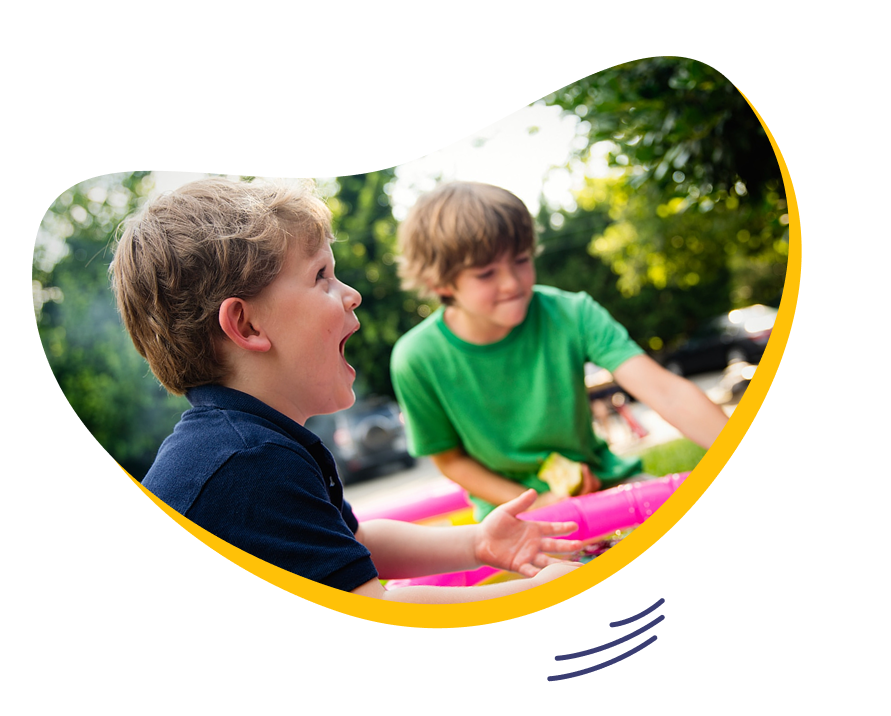
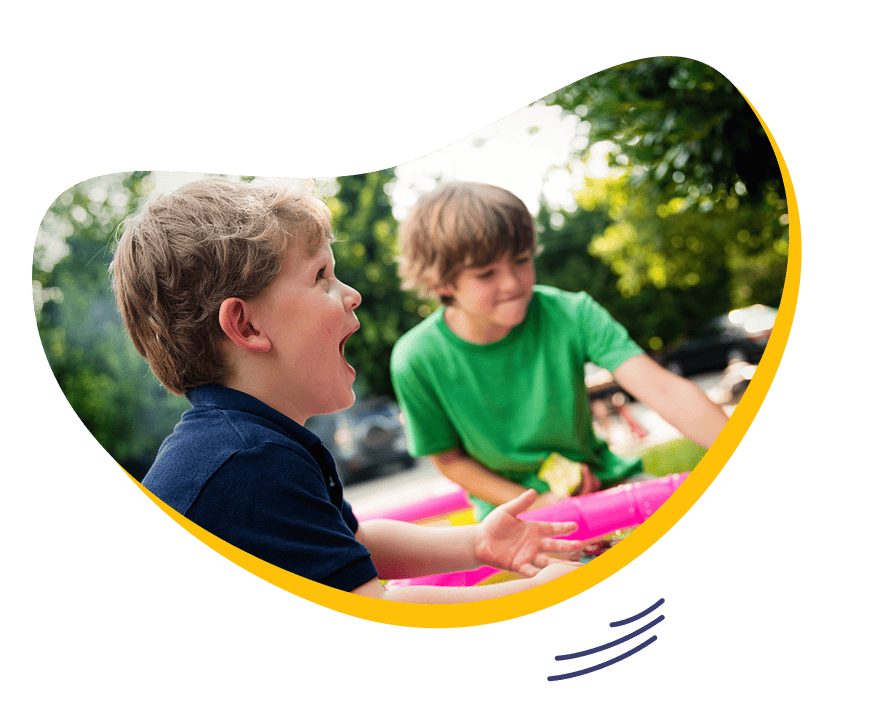
Arreglo img

diff --git a/index.html b/index.html
@@ -20,7 +20,7 @@
     <main>
         <section class="sobre-nosotros">
             <div>
-                <img src="assets/imgs/niñosmod.png" alt="niños felices en juego">
+                <img id="img-niños" src="assets/imgs/niñosmod.png" alt="niños felices en juego">
             </div>
             <div class="nosotros-cont">
                 <h2 class="tituloCart">Sobre nosotros</h2>

diff --git a/styles.css b/styles.css
@@ -110,6 +110,11 @@ span{
 img{
     max-width: 100%;
 }
+#img-niños{
+    width: 100%;
+    max-width: 700px;
+    height: auto;
+}
 
 .estadisticas-nosotros{
     background-color: var(--color-amarillo);
